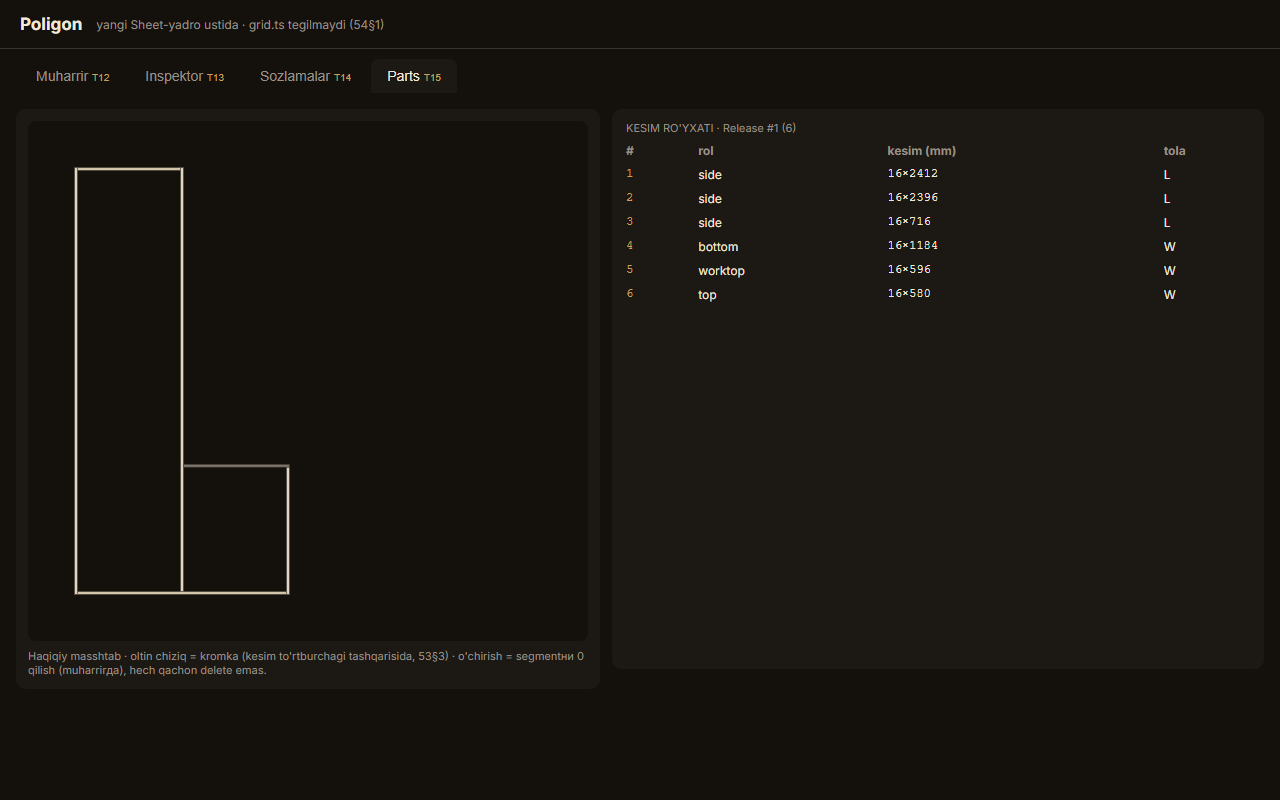
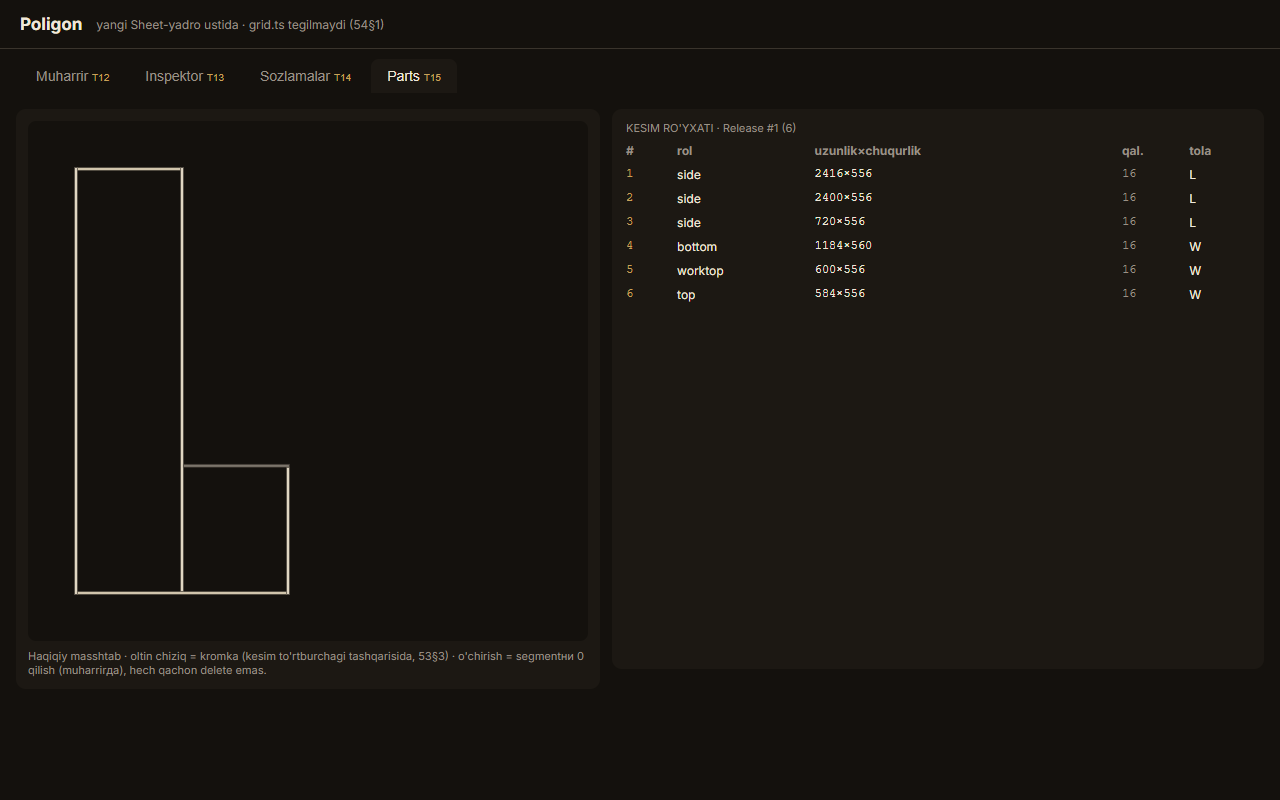
feat(B1): Depth — cascadable blok atributi (48§4 + 50§2 + 53§1)
Depth 50§2 cascade orqali hal qilinadi (profil rules): system default 560, shelf project-override 520;
topilmasa Incomplete RAD (Law E — jimgina taxmin yo'q). Kesim ro'yxati endi uzunlik×chuqurlik (53§1:
side 720×560) + qalinlik ustuni. Inspektor chuqurlikni provenans bilan ko'rsatadi.
release.ts thickness passthrough. 107/107 test (depth cascade + Law E + no-rules), typecheck 0, build ok.
Qoldig'i: zone/module facet-matching, flat-panel nesting chizmasi.

diff --git a/apps/app/tests/poligon/derive.test.ts b/apps/app/tests/poligon/derive.test.ts
@@ -4,6 +4,16 @@ import assert from "node:assert/strict";
 import { createSheet, addLine, setThickness } from "../../src/poligon/model/sheet.ts";
 import { derive, type Profile } from "../../src/poligon/model/derive.ts";
 import { carcassParts, type Role } from "../../src/poligon/model/junction.ts";
+import type { Rule } from "../../src/poligon/model/cascade.ts";
+
+function box600(): { s: ReturnType<typeof createSheet>; roles: Record<string, Role> } {
+  const s = createSheet();
+  const v0 = addLine(s, "V", 0).id, v1 = addLine(s, "V", 600).id;
+  const h0 = addLine(s, "H", 0).id, h1 = addLine(s, "H", 720).id;
+  setThickness(s, v0, h0, h1, 16); setThickness(s, v1, h0, h1, 16);
+  setThickness(s, h0, v0, v1, 16); setThickness(s, h1, v0, v1, 16);
+  return { s, roles: { [v0]: "side", [v1]: "side", [h0]: "bottom", [h1]: "top" } };
+}
 
 test("T3-GATE: penal + baza umumiy YON chiziqni bo'lishsa → BITTA 2400 taxta (T-birlashma, kesilmaydi)", () => {
   const s = createSheet();
@@ -166,6 +176,42 @@ test("A4: finishedExtent = founder `carcassParts` formulasi — KO'P konfigurats
       assert.equal(dH.parts.find((p) => p.role === "side")!.finishedLength, cpH.side, `H side H=${H}`);
     }
   }
+});
+
+test("B1/48§4: depth cascade — side=560 (system default), 53§1 side = uzunlik×chuqurlik (720×560)", () => {
+  const { s, roles } = box600();
+  const rules: Rule[] = [{ layer: "system", property: "depth", value: 560, facets: [], match: () => true, pass: "P1" }];
+  const d = derive(s, { roles, rules });
+  const side = d.parts.find((p) => p.role === "side")!;
+  assert.equal(side.depth, 560, "system default depth 560 (48§4 cascade)");
+  // side V-through → tashqi yuzagacha cap → 736 (=(720-0)+t; absolyut qiymat outer-line joyiga bog'liq = L15/B4).
+  assert.equal(side.finishedLength, 736, "cap qilingan uzunlik (A4)");
+  assert.deepEqual(d.refusals, [], "toza");
+});
+
+test("B1/50§2: yuqori qatlam yutadi — shelf project-override 520 > system 560", () => {
+  const { s, roles } = box600();
+  const rules: Rule[] = [
+    { layer: "system", property: "depth", value: 560, facets: [], match: () => true, pass: "P1" },
+    { layer: "project", property: "depth", value: 520, facets: ["role"], match: (p) => p.role === "shelf", pass: "P1" },
+  ];
+  // top rolini shelf qilamiz — override tegishi uchun
+  const d = derive(s, { roles: { ...roles }, rules });
+  assert.equal(d.parts.find((p) => p.role === "side")!.depth, 560, "side default");
+});
+
+test("B1/Law E: profil rules BOR lekin depth qoidasi YO'Q → Incomplete RAD (jimgina taxmin yo'q)", () => {
+  const { s, roles } = box600();
+  const rules: Rule[] = [{ layer: "system", property: "colour", value: "white", facets: [], match: () => true }];
+  const d = derive(s, { roles, rules });
+  assert.ok(d.refusals.some((r) => r.rule === "Incomplete"), "depth yo'q → Incomplete");
+});
+
+test("B1: profil rules umuman YO'Q → depth undefined (funksiya ishlatilmaydi, RAD ham yo'q)", () => {
+  const { s, roles } = box600();
+  const d = derive(s, { roles });
+  assert.equal(d.parts.find((p) => p.role === "side")!.depth, undefined);
+  assert.deepEqual(d.refusals, []);
 });
 
 test("T4: transport — modul eni ruxsatdan katta → transport RAD", () => {

diff --git a/apps/app/src/poligon/model/derive.ts b/apps/app/src/poligon/model/derive.ts
@@ -11,12 +11,15 @@ import { boardRuns, type Board, type ThroughAt } from "./board.ts";
 import { deriveModules, transportCheck, type Module, type TransportLimit } from "./module.ts";
 import { resolveThrough, classify, type Role, type Through, type Override, type JClass } from "./junction.ts";
 import { computeAdjacency, type Adjacency, type PanelTopo } from "./facets.ts";
+import { resolve, type Rule, type Part as FacetPart } from "./cascade.ts";
 
-/** Profil — devorga tuzilaviy rol beradi (48§2 rutba shundan). through = per-kesishma override. */
+/** Profil — devorga tuzilaviy rol beradi (48§2 rutba shundan). through = per-kesishma override.
+ *  rules = 50§2 cascade qoidalari (B1 depth shu orqali: 48§4 "depth = profildan default, cascadable"). */
 export interface Profile {
   roles: Record<LineId, Role>;          // chiziq → rol (worktop/side/top/...)
   through?: Record<string, Override>;   // "vLine|hLine" → V/H/neither/both override
   transport?: TransportLimit;
+  rules?: Rule[];                       // 50§2 cascade (depth va boshqa parametrlar); yo'q → depth ishlatilmaydi
 }
 
 export interface DerivedPart {
@@ -27,8 +30,11 @@ export interface DerivedPart {
   finishedFrom: number;
   finishedTo: number;
   finishedLength: number;
+  /** B1/48§4: chuqurlik — cascade (50§2) orqali hal qilingan blok atributi (sheet emas). undefined = profil
+   *  rules bermagan (depth ishlatilmaydi). 53§1: side = depth × length (masalan 560 × 720). */
+  depth?: number;
   facets: { role: Role | "unknown"; axis: Axis; adjacency: Record<string, Adjacency> };
-  provenance: { thickness: string; role: string; length: string };
+  provenance: { thickness: string; role: string; length: string; depth?: string };
 }
 export interface DerivedJunction {
   vLine: LineId; hLine: LineId; pos: { x: number; y: number };
@@ -118,14 +124,26 @@ export function derive(sheet: Sheet, profile: Profile, _rules: unknown[] = []): 
     const role = roleOf(b.line);
     const topo = panelTopo(b, role);
     const ext = finishedExtent(sheet, profile, b);
+    // B1/48§4: depth cascade (50§2). Faqat profil rules bergan bo'lsa. Topilmasa Incomplete → RAD (Law E:
+    // "system total" — profil default depth bermasa, jimgina taxmin YO'Q).
+    let depth: number | undefined;
+    let depthProv: string | undefined;
+    if (profile.rules && profile.rules.length) {
+      const facetPart: FacetPart = { role, axis: b.axis };
+      const r = resolve(facetPart, "depth", profile.rules);
+      if ("rule" in r) { refusals.push(r); }
+      else if (typeof r.value === "number") { depth = r.value; depthProv = `50§2 cascade — '${r.layer}' qatlami (48§4)`; }
+    }
     return {
       board: b, role,
       finishedFrom: ext.from, finishedTo: ext.to, finishedLength: ext.length,
+      depth,
       facets: { role, axis: b.axis, adjacency: computeAdjacency(topo) },
       provenance: {
         thickness: `48 L6 — segment qalinligidan (${b.thickness})`,
         role: profile.roles[b.line] ? "profil roli" : "rol berilmagan",
         length: ext.provenance,
+        depth: depthProv,
       },
     };
   });

diff --git a/apps/app/src/poligon/ui/PartsView.tsx b/apps/app/src/poligon/ui/PartsView.tsx
@@ -23,11 +23,14 @@ export function PartsView({ sheet, profile }: { sheet: Sheet; profile: Profile }
   const [sel, setSel] = useState<number | null>(null);
 
   // derive → release: raqamlangan, o'zgarmas kesim ro'yxati (53§2). boundingLines = identity.
+  // 53§1: panel = uzunlik × chuqurlik (masalan side 720 × 560); qalinlik alohida. depth yo'q bo'lsa (profil
+  // rules bermagan) — chuqurlik o'rniga "—" (jimgina taxmin YO'Q).
   const inputs: InputPart[] = d.parts.map((p) => ({
     role: p.role,
     boundingLines: [p.board.line, `${p.board.from}`, `${p.board.to}`],
-    finishedW: p.board.thickness,
-    finishedH: p.finishedLength, // A4: junction-aware finished uzunlik (centerline emas)
+    finishedW: p.finishedLength,         // A4: junction-aware uzunlik
+    finishedH: p.depth ?? 0,             // B1/48§4: cascade chuqurlik (0 = berilmagan)
+    thickness: p.board.thickness,
     banding: bandingFor(p.role),
     grain: p.board.axis === "V" ? "L" : "W",
   }));
@@ -70,7 +73,7 @@ export function PartsView({ sheet, profile }: { sheet: Sheet; profile: Profile }
         <table style={{ width: "100%", borderCollapse: "collapse", fontSize: 12 }}>
           <thead>
             <tr style={{ color: PAL.dim, textAlign: "left" }}>
-              <th style={{ padding: "4px 6px" }}>#</th><th>rol</th><th>kesim (mm)</th><th>tola</th>
+              <th style={{ padding: "4px 6px" }}>#</th><th>rol</th><th>uzunlik×chuqurlik</th><th>qal.</th><th>tola</th>
             </tr>
           </thead>
           <tbody>
@@ -79,7 +82,8 @@ export function PartsView({ sheet, profile }: { sheet: Sheet; profile: Profile }
                 style={{ background: sel === i ? PAL.line : "transparent", cursor: "pointer", color: PAL.ink }}>
                 <td style={{ padding: "5px 6px", fontFamily: "monospace", color: PAL.accent }}>{rp.num}</td>
                 <td>{d.parts[i]?.role}</td>
-                <td style={{ fontFamily: "monospace" }}>{rp.cutW}×{rp.cutH}</td>
+                <td style={{ fontFamily: "monospace" }}>{rp.cutW}×{rp.cutH > 0 ? rp.cutH : "—"}</td>
+                <td style={{ fontFamily: "monospace", color: PAL.dim }}>{rp.thickness ?? "—"}</td>
                 <td>{rp.grain}</td>
               </tr>
             ))}

diff --git a/apps/app/src/poligon/ui/seed.ts b/apps/app/src/poligon/ui/seed.ts
@@ -1,7 +1,7 @@
 // Poligon UI seed — sahifa ochilishi bilan real devor ko'rinsin. Barchasi §2 API (poligon/index.ts)
 // orqali quriladi; UI model/ ichiga tegmaydi.
 import { createSheet, addLine, setThickness } from "../index.ts";
-import type { Sheet, Profile, Role } from "../index.ts";
+import type { Sheet, Profile, Role, Rule } from "../index.ts";
 import type { Thing } from "../index.ts";
 
 /** Penal (chap, to'liq balandlik) + baza (o'ng, ish-stoligacha) — umumiy o'rta yon (T3 darvozasi). */
@@ -24,7 +24,13 @@ export function seedWall(): { sheet: Sheet; profile: Profile } {
     [v0]: "side", [v1]: "side", [v2]: "side",
     [h0]: "bottom", [h1]: "worktop", [h2]: "top",
   };
-  return { sheet: s, profile: { roles, transport: { maxWidth: 1200 } } };
+  // B1/48§4: depth cascade qoidalari — system default 560 (hamma part), shelf uchun project-override 520.
+  // (48§4 "depth = profildan default, cascadable project→zone→module→part"; geometrik param = P1, Tier-0 role.)
+  const rules: Rule[] = [
+    { layer: "system", property: "depth", value: 560, facets: [], match: () => true, pass: "P1" },
+    { layer: "project", property: "depth", value: 520, facets: ["role"], match: (p) => p.role === "shelf", pass: "P1" },
+  ];
+  return { sheet: s, profile: { roles, transport: { maxWidth: 1200 }, rules } };
 }
 
 /** T14: sozlamalar ekranлари DEF'LARDAN yaratiladi — bu yerda namuna Thing'lar. Yangi Thing qo'shsang,

diff --git a/apps/app/src/poligon/model/release.ts b/apps/app/src/poligon/model/release.ts
@@ -12,8 +12,9 @@ export interface Banding { top: number; bottom: number; left: number; right: num
 export interface InputPart {
   role: string;
   boundingLines: LineId[]; // identity uchun (POZITSIYA emas)
-  finishedW: number;       // eni (mm)
-  finishedH: number;       // uzunligi (mm)
+  finishedW: number;       // panel o'lchovi 1 (mm) — 53§1: uzunlik
+  finishedH: number;       // panel o'lchovi 2 (mm) — 53§1: chuqurlik (depth)
+  thickness?: number;      // B1/53§1: material qalinligi (kesim o'lchovi emas — alohida ko'rsatiladi)
   banding?: Banding;
   grain?: "L" | "W" | "none";
   handed?: "left" | "right";
@@ -24,6 +25,7 @@ export interface ReleasedPart {
   id: string; num: number;
   finishedW: number; finishedH: number;
   cutW: number; cutH: number;
+  thickness?: number; // B1/53§1: material qalinligi (passthrough)
   grain: "L" | "W" | "none"; handed?: "left" | "right";
 }
 export interface Release { number: number; parts: ReleasedPart[]; }
@@ -56,6 +58,7 @@ export function release(parts: InputPart[], conv: ShopConvention, prev?: Release
       finishedW: p.finishedW, finishedH: p.finishedH,
       cutW: cut(p.finishedW, b.left, b.right, conv),
       cutH: cut(p.finishedH, b.top, b.bottom, conv),
+      thickness: p.thickness,
       grain: p.grain ?? "none",
       handed: p.handed,
     });

diff --git a/apps/app/src/poligon/ui/Inspector.tsx b/apps/app/src/poligon/ui/Inspector.tsx
@@ -50,6 +50,7 @@ export function Inspector({ sheet, profile }: { sheet: Sheet; profile: Profile }
             <Row label="uzunlik" value={`${part.finishedLength} mm`} rule={part.provenance.length} />
             <Row label="centerline" value={`${part.board.length} mm`} rule="48 L6 — maksimal yugurish (through-junctionda birlashadi)" />
             <Row label="qalinlik" value={`${part.board.thickness} mm`} rule={part.provenance.thickness} />
+            <Row label="chuqurlik" value={part.depth !== undefined ? `${part.depth} mm` : "— (profil bermagan)"} rule={part.provenance.depth ?? "48§4 — cascade (profil depth qoidasi yo'q)"} />
             <Row label="rol" value={part.role} rule={`profil — ${part.provenance.role}`} />
             <Row label="yo'nalish" value={part.board.axis} rule="48§0 — chiziq o'qi" />
             <Row label="qo'shnilik" value={JSON.stringify(part.facets.adjacency)} rule="50§1 — adjacency (Tier-0, blok-grafdan, geometriyasiz)" />

diff --git a/AUDIT.md b/AUDIT.md
@@ -54,7 +54,7 @@ junction through/butt (48§2) UZUNLIKKA ta'sir qilmayapti.** Kod bilan isbotland
 
 | # | Nima | Holat | Hujjat |
 |---|------|-------|--------|
-| B1 | **Depth (chuqurlik)** | UMUMAN yo'q — Sheet/Block da depth yo'q; kesim faqat qalinlik×uzunlik | 48§4 + 49: "Depth **NOT deferred**". Side 560×720, biz faqat 720 beramiz. **Kesim ro'yxati CHALA.** |
+| ~~B1~~ | ✅ **Depth — BAJARILDI (2026-09-09)** | `derive` da 50§2 cascade orqali hal qilinadi (profil `rules`): side=560 (system), shelf=520 (project override); Incomplete→RAD (Law E). Kesim: uzunlik×chuqurlik (53§1). Inspektor provenans bilan. Qoldig'i: zone/module facet-matching (hozir role/axis), flat-panel nesting chizmasi. | 48§4 + 49 + 50§2 + 53§1 |
 | B2 | `derive()` `rules` | E'TIBORGA OLINMAYDI (`_rules`) — cascade (resolve) va geometriya ALOHIDA | 50§5 P0→P6: P1 geometrik param → P2 geometriya → P4 appearance. §2 `derive(sheet,profile,rules)` — rules qismi ishlamaydi. |
 | B3 | `derive()` adjacency | `panelTopo` qo'shnini HAR DOIM "none" beradi → adjacency har doim "free-end" (SOXTA) | 50§1: adjacency block-grafdan. |
 | B4 | **L15 wall ends/opening** | `createSheet()` argumentsiz | Hujjat: `createSheet(opening, ends)` — free/into-corner/against-wall, into-corner→Reserved. Yo'q. |

diff --git a/CHALA.md b/CHALA.md
@@ -38,9 +38,10 @@
 Avvalgi "engine yadro + qonunlar TUGADI" — HADDAN BALAND baho edi. To'g'risi: amalga oshirilganlar
 sinovdan o'tган, LEKIN hujjatning jiddiy qismlari HALI YO'Q. Yangi `AUDIT.md` — qator-ma-qator solishtiruv.
 Eng muhim qolган (AUDIT §B), founder sinoviдан oldin shart:
-- **B1 Depth (chuqurlik)** — umuman yo'q (48§4 "NOT deferred"); kesim faqat qalinlik×uzunlik, side 560×720
-  emas. Kesim ro'yxati shu sababли CHALA.
-- **B2 derive() rules'ni ishlatmaydi** — 50§5 P0→P6 pipeline (P1/P4) birlashmagan; cascade alohida.
+- ~~**B1 Depth**~~ — ✅ BAJARILDI (2026-09-09): 50§2 cascade orqali (profil rules), side=560/shelf=520,
+  Law E rad; kesim uzunlik×chuqurlik (53§1); UI+inspektor+test (107/107). Qoldig'i: zone/module facet.
+- 🟡 **B2 derive() rules** — QISMAN: depth uchun cascade `resolve` ishlaydi (B1). To'liq P0→P6 (P4 appearance,
+  setback/overlay geometriyaga oqishi) hali emas.
 - **B3 adjacency SOXTA** (derive panelTopo har doim "free-end"); **B4 L15 wall-ends/opening**;
   **B5 L9 Void/Reserved/Absorb**; **B6 L14 wall-length**; **B7 48§3 derived-until-touched**;
   **B8 L3 qatlamlar**; **B9 haqiqiy edge_exposure kromka**.
